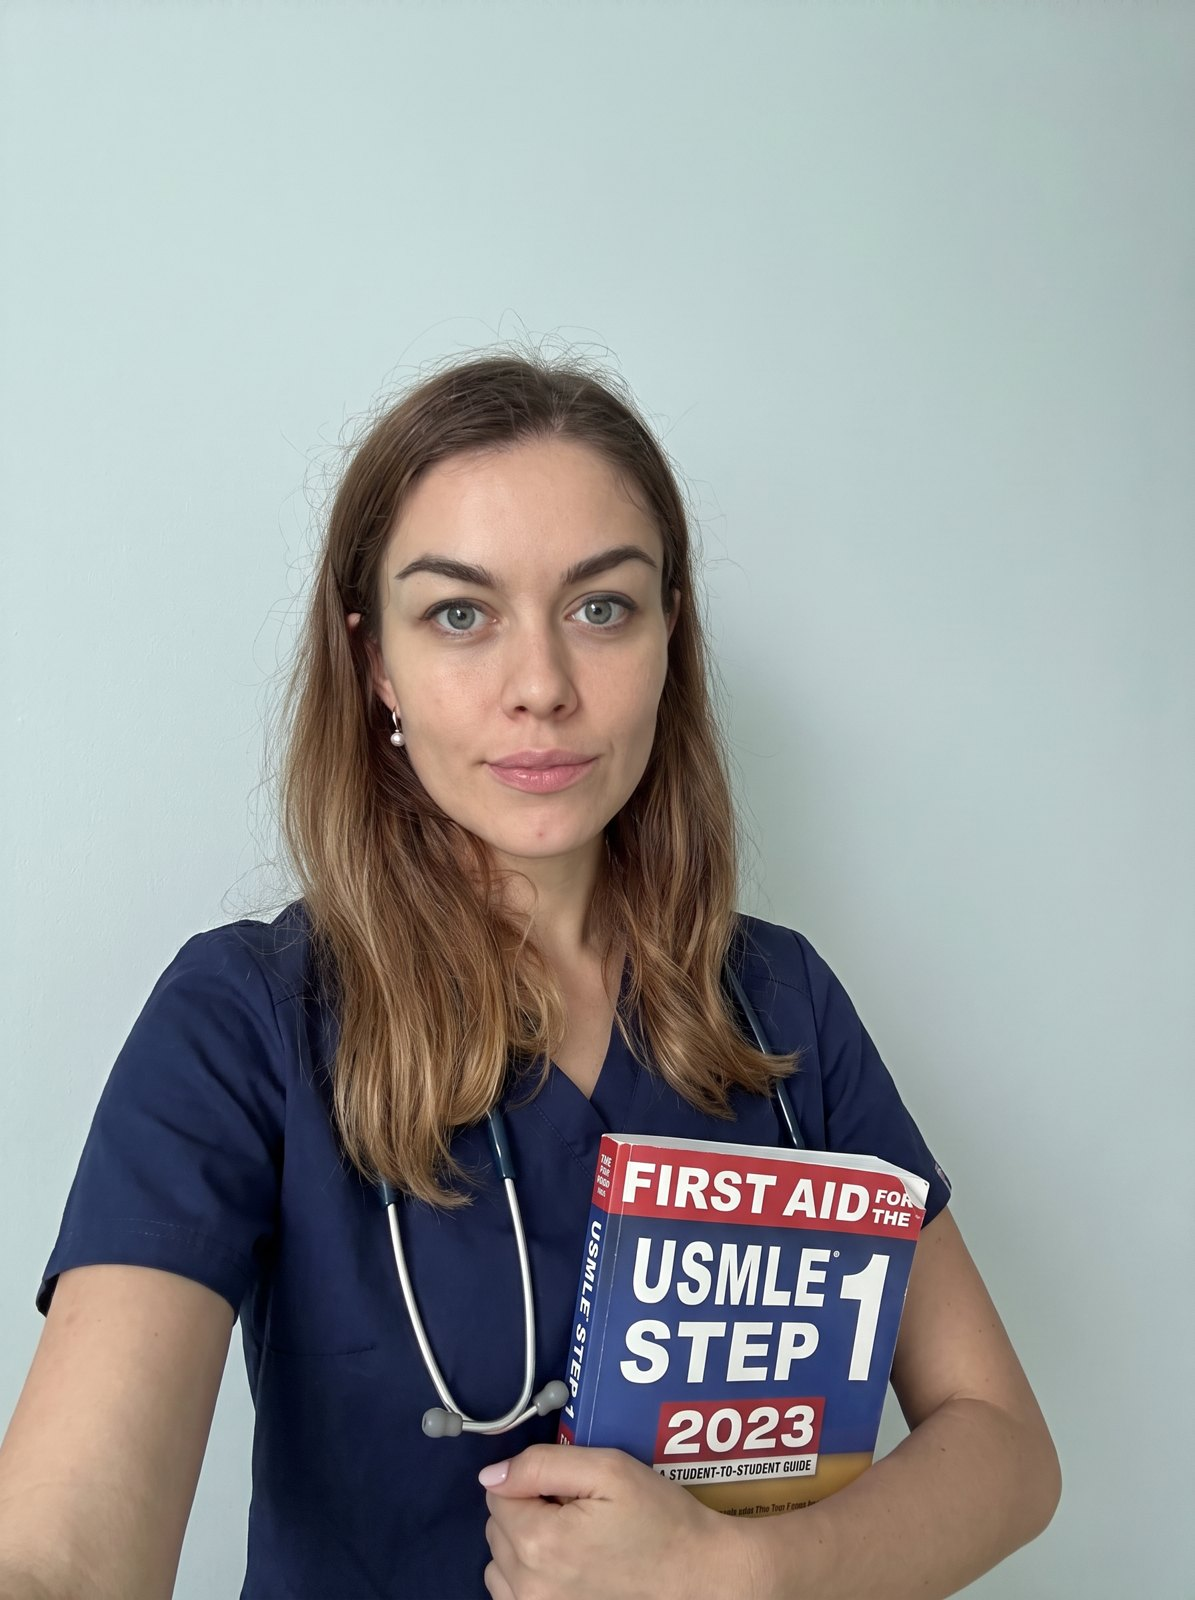
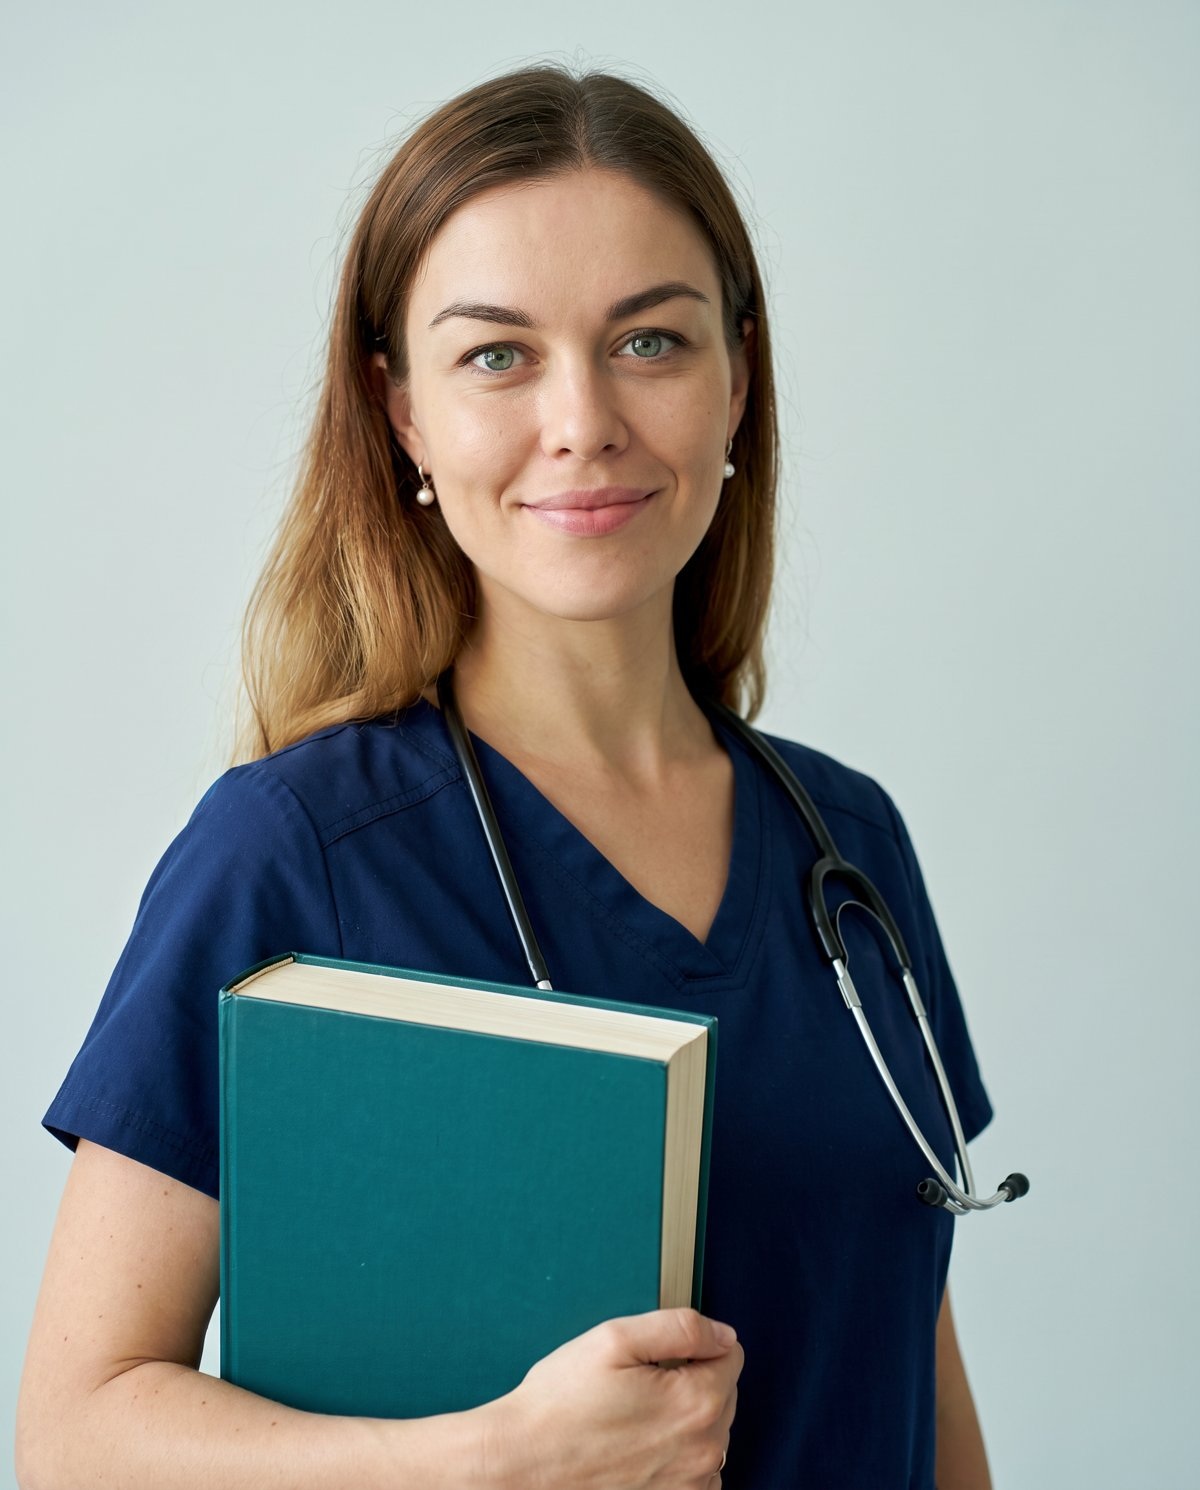
About: back to photo with plain book; FAQ: new photo with First Aid
Claude-Session: https://claude.ai/code/session_016RaYZYiEPZsG2KpibD82ni

diff --git a/app/[locale]/page.tsx b/app/[locale]/page.tsx
@@ -176,7 +176,7 @@ export default function Home() {
           <SectionHead eyebrow={t('about.tag')} title={t('about.title')} />
           <div className="grid gap-3 lg:grid-cols-[0.8fr_1.4fr]">
             <div className="relative min-h-[420px] overflow-hidden rounded-[28px] bg-steel">
-              <Image src="/asiia-book.jpg" alt="Dr. Asiia Vinograd" fill sizes="(min-width: 1024px) 460px, 100vw" className="object-cover object-[50%_35%]" />
+              <Image src="/asiia-book.jpg" alt="Dr. Asiia Vinograd" fill sizes="(min-width: 1024px) 460px, 100vw" className="object-cover object-[50%_20%]" />
               <div className="absolute left-3 top-3 rounded-full bg-white/85 px-4 py-2 text-[13px] font-medium text-slate backdrop-blur">
                 {ru ? 'Доктор Асия Виноград' : 'Dr. Asiia Vinograd'}
               </div>

diff --git a/components/FaqSection.tsx b/components/FaqSection.tsx
@@ -25,7 +25,7 @@ export default function FaqSection({ onAsk }: { onAsk?: () => void }) {
             </div>
           )}
           <div className="relative mt-8 hidden min-h-[260px] flex-1 overflow-hidden rounded-[22px] bg-steel lg:block">
-            <Image src="/asiia.jpg" alt="Dr. Asiia Vinograd" fill sizes="420px" className="object-cover object-[50%_15%]" />
+            <Image src="/asiia-faq.jpg" alt="Dr. Asiia Vinograd" fill sizes="420px" className="object-cover object-[50%_40%]" />
           </div>
         </div>
 
